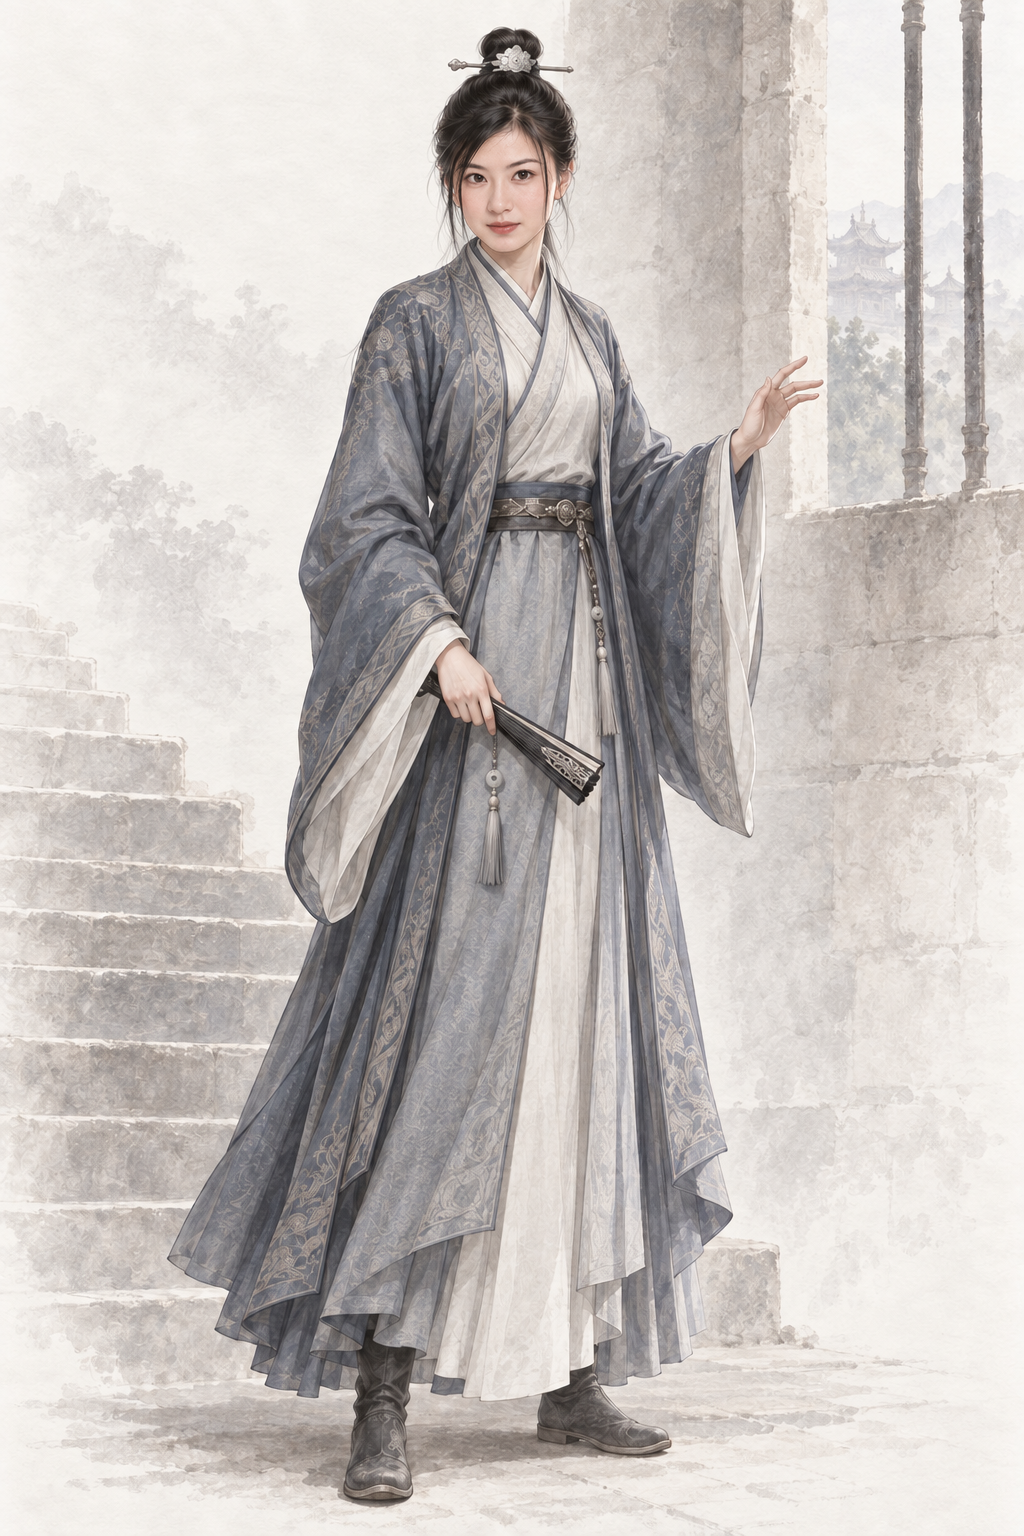
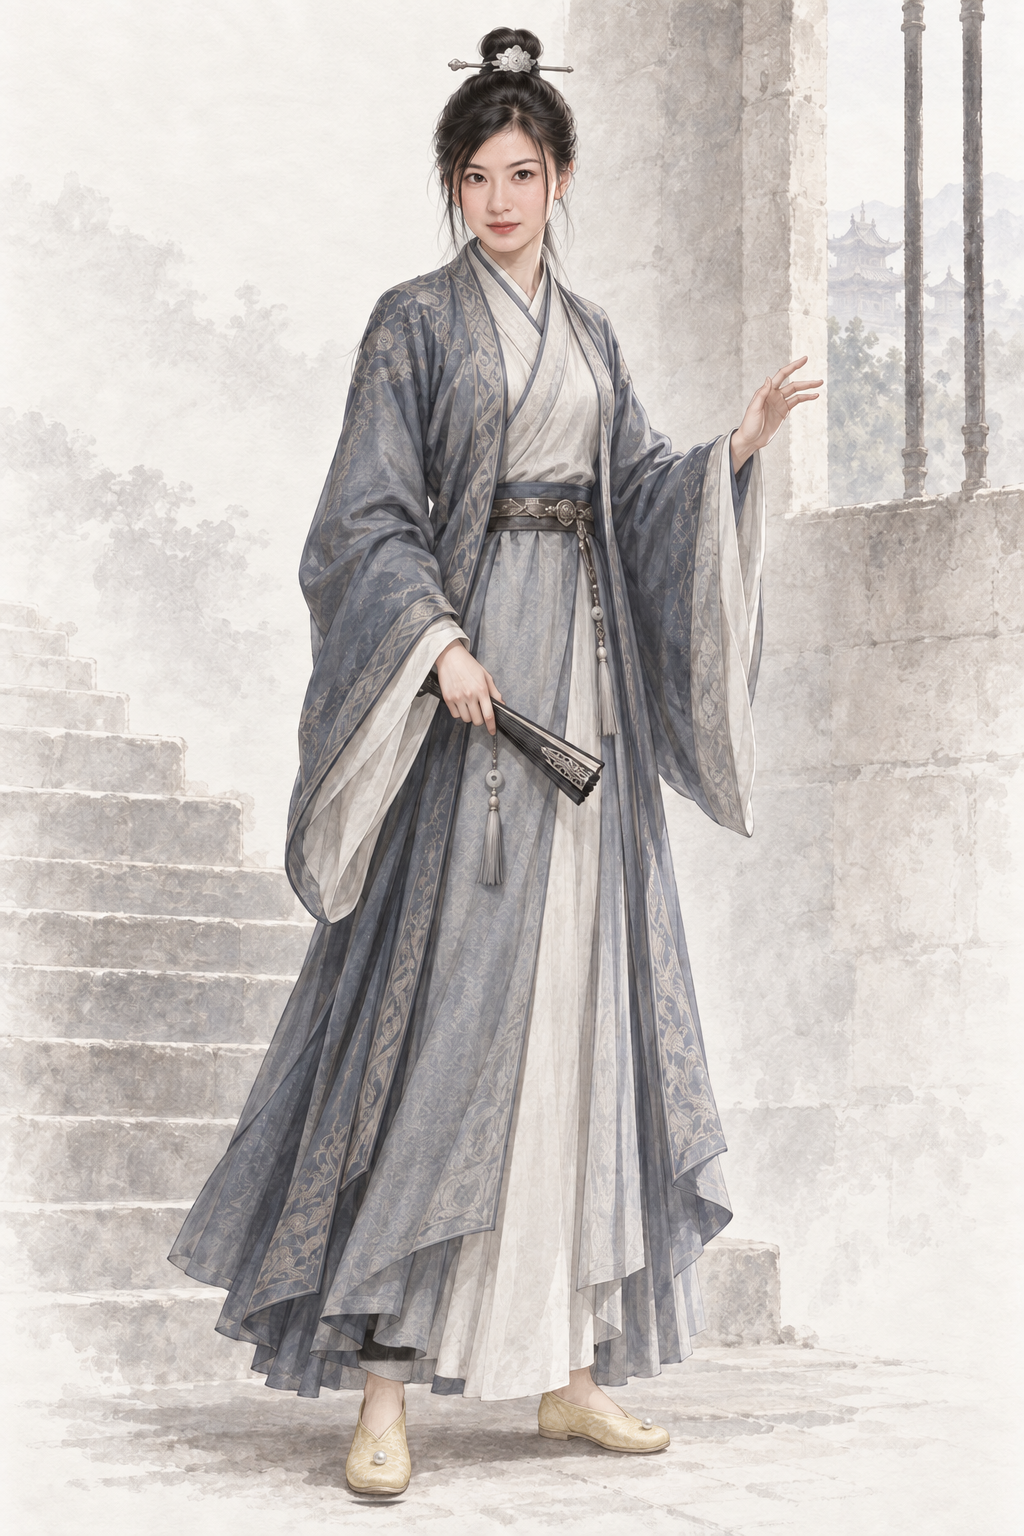
assets: AR-82 原著核对返修 赵敏万安寺换鹅黄缎鞋鞋头明珠
原著摘句已同步提示词；已打开验图；蒙版外0像素变化。

Executed-By: Codex gpt-6.1-sol（AR-82）

Changed region(s): [[0.5, 0.875, 0.6562, 0.9688], [0.3125, 0.875, 0.4062, 1.0]]

diff --git a/assets/default/prompts/characters/ch04-yitian/npc_zhaomin__scene_wanansi.md b/assets/default/prompts/characters/ch04-yitian/npc_zhaomin__scene_wanansi.md
@@ -106,3 +106,8 @@ Create a premium REALISTIC Chinese wuxia character illustration with a delicate 
 - 采用作者授权宽松自查；偏差如实记录，candidate不代表approved。
 - 源PNG通常为1024×1536 RGB；其他原生2:3尺寸如实登记，原字节保存，不裁切、重编码、放大或去除溯源。
 - 完整请求、实际参考哈希及旧版本备份见 `.agents/coord/portrait-generation/realism-20261001/por_npc_zhaomin__ch04_youth_scene_wanansi.prepared.json`。
+
+## 原著依据
+
+- 《倚天屠龙记》二十六 俊貌玉面甘毁伤：“穿一对鹅黄缎鞋，鞋头上各缀一颗明珠”；https://www.xuges.com/wuxia/jinyong/yttlj/189.htm
+- AR-82 返修约束（本节优先于历史提示词）：只将脚下高筒黑靴换为一对鹅黄色缎鞋，每只鞋头各缀一颗圆明珠，珠数总共两颗。鞋从衣摆下自然露出，原脚的位置、足部大小不变。腿和裙摆、脸、衣服其余部分、手、背景完全不动。
